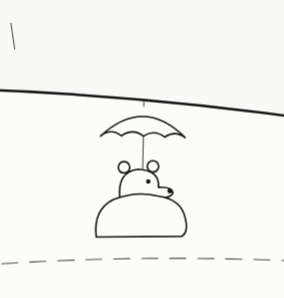
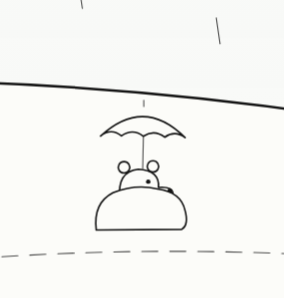
Front page: near rain over the headland; broken water at the south tower and along the Marin shore; the light spans the whole city or bridge; the bear's umbrella opens when it is up and folds before it goes; boats either way, sailboats also far off under the bridge; first acts early or late; 25 cent

diff --git a/docs/mockup/index.html b/docs/mockup/index.html
@@ -253,7 +253,7 @@ header.top{display:flex;align-items:baseline;justify-content:space-between;gap:1
     <!-- ================= the one scene from the point, painted once; the colour lies over the ink ================= -->
     <svg class="pan" id="L-static" viewBox="0 0 1600 700" aria-hidden="true"><g class="zoom scene"><g id="far"></g><g id="washes"></g></g></svg>
     <svg class="pan" id="L-lights" viewBox="0 0 1600 700" aria-hidden="true"><g class="zoom"><g id="lights" class="scene"></g></g></svg>
-    <svg class="pan" id="L-water" viewBox="0 0 1600 700" aria-hidden="true"><g class="zoom scene"><g id="skyfront" class="sky thin"></g><g id="water" class="hair"></g><g id="fog" class="fog" mask="url(#fogmask)"></g></g></svg>
+    <svg class="pan" id="L-water" viewBox="0 0 1600 700" aria-hidden="true"><g class="zoom scene"><g id="skyfront" class="sky thin"></g><g id="water" class="hair"></g><g id="fog" class="fog" mask="url(#fogmask)"></g><g id="foam" class="hair"></g><g id="rainnear" class="sky thin"></g></g></svg>
     <!-- foreground: the point, the lighthouse, the railing, the viewer at rest -->
     <svg id="L-life" viewBox="0 0 1600 700" aria-hidden="true"><defs><clipPath id="behind-hills"><path clip-rule="evenodd" d="M0 0 H1600 V700 H0 Z M 1400 700 L 1400 314 L 1500 320 L 1600 329 L 1600 700 Z"/></clipPath><clipPath id="behind-foothills"><path clip-rule="evenodd" d="M0 0 H1600 V700 H0 Z M 780 700 L 780 262 C 850 236, 930 230, 1000 244 C 1050 254, 1090 256, 1130 262 L 1130 700 Z"/></clipPath></defs><g id="life" class="life scene"></g></svg>
     <svg class="fg" id="L-fg" viewBox="0 0 1600 700" role="group" aria-label="An ink drawing of a lighthouse on a headland. Turn to the city or the bridge, or raise the coin telescope to look at the valley.">
@@ -486,6 +486,17 @@ header.top{display:flex;align-items:baseline;justify-content:space-between;gap:1
   (function crests(){ const r = rng(19); for (let i=0;i<12;i++){ const x = r()*W, y = 360 + r()*320; const c = el("path", {d:`M${x} ${y} q 6 -3 12 0 M${x+3} ${y-2} l 2 -2`, class:"crest thin"}, waterG); c.style.animationDelay = (-r()*4).toFixed(2) + "s"; c.style.animationDuration = (3 + r()*3).toFixed(2) + "s"; } })();
   // the Marin headland, near, drawn over the water so the bay ends at its foot; the road out to the point on it
   const headland = el("g", {}); waterG.parentNode.insertBefore(headland, fogG);
+  // where something solid stands in the water, the water breaks around it, and keeps breaking
+  (function foam(){
+    const g = $("#foam"), spots = [[620, 362, 1.2, "tower"], [612, 362, .9, "tower"], [394, 347, 1, "shore"], [372, 351, .9, "shore"], [348, 355, .9, "shore"], [322, 358, .8, "shore"], [298, 360, .8, "shore"], [270, 362, .7, "shore"]];
+    const draw = () => { const r = Math.random; let d = "";
+      for (const [x, y, k] of spots){
+        d += ` M ${(x - 9*k - r()*3).toFixed(1)} ${(y + .5).toFixed(1)} q ${(4*k).toFixed(1)} ${(-2.4*k - r()*1.2).toFixed(1)} ${(8*k).toFixed(1)} 0`;
+        d += ` M ${(x + 1 + r()*2).toFixed(1)} ${(y + 1.5).toFixed(1)} q ${(4*k).toFixed(1)} ${(-2*k - r()).toFixed(1)} ${(9*k).toFixed(1)} ${(.5*r()).toFixed(1)}`;
+        if (r() < .6) d += ` M ${(x - 4*k + r()*8*k).toFixed(1)} ${(y + 4*k).toFixed(1)} l ${(3*k).toFixed(1)} ${(-.8*k).toFixed(1)}`; }
+      g.setAttribute("d", ""); g.innerHTML = ""; el("path", {d}, g); };
+    draw(); setInterval(()=>{ if (!reduced) draw(); }, 260);
+  })();
   // a ridge that falls from the left edge to the water, the Gate's north end on its shoulder
   // the Marin headland: a low rounded shoulder falling to the water at the Gate's north end
   // filled down into the water so the Gate's north tower stands out of it; only its skyline is inked
@@ -649,7 +660,7 @@ header.top{display:flex;align-items:baseline;justify-content:space-between;gap:1
     el("path", {d:"M-300 -60 L 300 -60", class:"hair"}, hood);
     el("path", {d:"M-14 -134 L 14 -134 M 0 -142 L 0 -126", class:"thin"}, hood);                      // the slot
     el("path", {d:"M-70 -126 L 70 -126 L 70 -74 L -70 -74 Z", class:"thin"}, hood);                  // the plate
-    const t = el("text", {x:0, y:-100, "text-anchor":"middle", class:"cap"}, hood); t.textContent = "25.5¢";
+    const t = el("text", {x:0, y:-100, "text-anchor":"middle", class:"cap"}, hood); t.textContent = "25¢";
     const t2 = el("text", {x:0, y:-82, "text-anchor":"middle"}, hood); t2.textContent = "PER MILLION TOKENS";
     el("circle", {cx:-236, cy:-112, r:20}, hood); el("path", {d:"M-236 -132 L -236 -92 M-256 -112 L -216 -112", class:"hair"}, hood);
     const k = el("text", {x:-236, y:-78, "text-anchor":"middle"}, hood); k.textContent = "FOCUS";
@@ -710,7 +721,8 @@ header.top{display:flex;align-items:baseline;justify-content:space-between;gap:1
   const beam = $("#beam"), cone = $("#cone"), pans = document.querySelectorAll("svg.pan"), fgSvg = $("#L-fg"), fg = $("#fg"), stage = $("#stage");
   // what each view is, in the scene: the two ends the beam reaches for. The telescope is in front, on the rail.
   // from the point the beam reaches for the whole of the place; once turned, it skims the water to the place's feet
-  const TARGET = { city:{ ends:[[1000, 230], [1450, 336]], base:[[1020, 250], [1450, 338]] }, bridge:{ ends:[[160, 240], [760, 330]], base:[[300, 215], [560, 338]] }, tele:{ ends:[[1470, 334], [1600, 346]] } };
+  // ends: the two edges of the light seen from the point; edge: the same once turned to it, running to the place's top and to its foot on the water
+  const TARGET = { city:{ ends:[[1005, 214], [1600, 342]], edge:[[1057, 215], [1600, 341]] }, bridge:{ ends:[[292, 214], [140, 332]], edge:[[300, 210], [150, 337]] }, tele:{ ends:[[1470, 334], [1600, 346]] } };
   const beamPath = $("#beam path"); let beamTimer = null; const fogTimers = [];
   // where the lighthouse stands in each view: whole at the point; turned, only its lantern shows, large, at the side you turned from
   const LANTERN = [800, 263];
@@ -728,11 +740,8 @@ header.top{display:flex;align-items:baseline;justify-content:space-between;gap:1
       far = target.ends.map(([x, y]) => [x, y]);
       beamPath.setAttribute("d", far.map(([x, y]) => `M${LANTERN[0]} ${LANTERN[1]} L ${x.toFixed(1)} ${y.toFixed(1)}`).join(" "));
     } else {
-      // turned, a single narrow beam from the lantern to the middle of the place, widening a little with distance
-      const [a1, b1] = target.base.map(([x, y]) => toScreen(view, x, y)), c = [(a1[0]+b1[0])/2, (a1[1]+b1[1])/2];
-      const dx = c[0]-lantern[0], dy = c[1]-lantern[1], len = Math.hypot(dx, dy), nx = -dy/len, ny = dx/len, w = len*0.11, ext = .78;   // the drawn light stops short of the shore, where the first solid thing stands
-      const f = [lantern[0] + dx*ext, lantern[1] + dy*ext];
-      far = [[f[0] + nx*w*ext, f[1] + ny*w*ext], [f[0] - nx*w*ext, f[1] - ny*w*ext]];
+      // turned, the light spans the place: one edge to its top, the other to its foot on the water, both kept within the frame
+      far = target.edge.map(([x, y]) => { const [sx, sy] = toScreen(view, x, y); return [Math.max(20, Math.min(1580, sx)), Math.max(20, sy)]; });
     }
     const farFg = far.map(e => screenToFg(view, e));
     const mid = [(farFg[0][0]+farFg[1][0])/2, (farFg[0][1]+farFg[1][1])/2];
@@ -1007,7 +1016,7 @@ header.top{display:flex;align-items:baseline;justify-content:space-between;gap:1
     document.documentElement.style.setProperty("--cdrift", cross + "s");
     document.documentElement.style.setProperty("--rfall", (o.wind_kmh > 40 ? .7 : 1.1) + "s");
     document.querySelectorAll(".fog").forEach(g=>{ g.style.opacity = Math.max(w.fog, .4); });
-    sky.innerHTML = ""; skyFront.innerHTML = ""; celes.innerHTML = "";
+    sky.innerHTML = ""; skyFront.innerHTML = ""; celes.innerHTML = ""; $("#rainnear").innerHTML = "";
     const r = rng(w.clouds*13+7), clock = Date.now()/1000;
     // most cloud is behind the land and the bridge; one in four passes in front of them
     // cloud keeps to two bands: high, above the labels, and low, along the horizon behind the land
@@ -1018,7 +1027,7 @@ header.top{display:flex;align-items:baseline;justify-content:space-between;gap:1
     if (w.band) for (let y=90; y<104; y+=10) el("path", {d:`M 0 ${y} L ${W} ${y}`, class:"hair"}, sky);
     const rainN = [0, 220, 560][Math.max(w.rain, rainLevel)];
     if (rainN){ const slant = -lateral * 0.35;
-      const far = el("g", {class:"rain"}, sky), near = el("g", {class:"rain near"}, skyFront);
+      const far = el("g", {class:"rain"}, sky), near = el("g", {class:"rain near"}, $("#rainnear"));
       for (let i=0;i<rainN;i++){ const x = r()*W, y = 60 + r()*272; el("path", {d:`M${x} ${y} l ${slant*.7} 7`, class:"hair"}, far); }        // above the horizon only
       for (let i=0;i<rainN*.35;i++){ const x = r()*W, y = 40 + r()*640; el("path", {d:`M${x} ${y} l ${slant*1.3} 13`, class:"hair"}, near); } }
     document.querySelectorAll(".gull").forEach(p=>{ p.style.transform = `rotate(${lateral > 20 ? 14 : lateral < -20 ? -14 : 0}deg)`; p.style.transformOrigin = "center"; });
@@ -1207,23 +1216,29 @@ header.top{display:flex;align-items:baseline;justify-content:space-between;gap:1
     bear(){ if (stage.dataset.view !== "bridge" || bearUp) return 0; bearUp = true;
       // up over the rock, a look one way and the other, and down again
       const h = $("#bearhead"); const at = (y, fx) => h.setAttribute("transform", `translate(0,${y.toFixed(2)}) scale(${fx},1)`);
-      const wet = (PRESETS[current.preset] || {}).rain > 0 || current.rainLevel > 0; $("#brolly").style.display = wet ? "" : "none";   // in the rain, it brings an umbrella
-      tween(1800, k=>at(8 - 17*(1-(1-k)**2), 1), ()=>{ setTimeout(()=>{ at(-9, -1); setTimeout(()=>{ at(-9, 1);
-        setTimeout(()=>tween(1400, k=>at(-9 + 17*k*k, 1), ()=>{ bearUp = false; }), 1600); }, 1400); }, 1500); });
+      // in the rain it brings an umbrella: opened once its head is up, folded before it goes back down
+      const wet = (PRESETS[current.preset] || {}).rain > 0 || current.rainLevel > 0, u = $("#brolly");
+      const brolly = (open, ms) => { if (!wet) return; u.style.display = ""; tween(ms, k=>{ const f = open ? k : 1 - k; u.setAttribute("transform", `translate(1,-6) scale(${(.08 + .92*f).toFixed(2)},${(.3 + .7*f).toFixed(2)}) translate(-1,6)`); }, ()=>{ if (!open) u.style.display = "none"; }); };
+      u.style.display = "none";
+      const rise = 1500 + Math.random()*900, look = 1100 + Math.random()*900, peek = 15 + Math.random()*3;   // each time a little different
+      const first = Math.random() < .5 ? -1 : 1, top = 8 - peek;
+      tween(rise, k=>at(8 - peek*(1-(1-k)**2), 1), ()=>{ brolly(true, 500); setTimeout(()=>{ at(top, first); setTimeout(()=>{ at(top, -first);
+        setTimeout(()=>{ brolly(false, 450); setTimeout(()=>tween(1400, k=>at(top + peek*k*k, 1), ()=>{ bearUp = false; }), 500); }, look + 400); }, look); }, 1200 + Math.random()*800); });
       return 7800; },
     gust(){ stage.classList.add("gust"); document.querySelectorAll(".gull").forEach(p=>{ p.style.transition = "transform .8s"; p.style.transform = "rotate(-22deg)"; });
       setTimeout(()=>{ stage.classList.remove("gust"); }, 5000); },
     sail(){ const view = stage.dataset.view; if (view !== "bridge" && view !== "home") return 0;
-      const g = el("g", {class:"thin"}, life), boat = el("g", {}, g), P = "fill:var(--paper)";
+      const home = view === "home", farLane = !home && Math.random() < .5;   // on the bridge, half of them pass out under it, far off, behind the south tower
+      const g = el("g", {class:"thin"}, farLane ? $("#lifeback") : life), boat = el("g", {}, g), P = "fill:var(--paper)";
       el("path", {d:"M -22 0 L 24 0 L 17 7 L -16 7 Z", style:P}, boat);
       el("path", {d:"M 0 0 L 0 -44", class:"thin"}, boat);
       el("path", {d:"M 1.5 -42 Q 14 -24 21 -3 L 1.5 -3 Z", style:P}, boat);
       el("path", {d:"M -1.5 -38 L -1.5 -4 L -17 -4 Z", style:P}, boat);
       el("circle", {cx:0, cy:-45, r:1.3, class:"carlight lamp", style:"fill:#FFFFFF;stroke:none"}, boat);
       el("circle", {cx:-20, cy:2, r:1.3, class:"carlight lamp", style:"fill:#FF3B30;stroke:none"}, boat);
-      const home = view === "home", y = home ? 362 + Math.random()*100 : 535 + Math.random()*45, dur = 60000 + Math.random()*20000, heel = 3 + Math.random()*4;
-      const sc = home ? .28 + (y - 362)/100*.22 : .55 + Math.random()*.15, wk = wake(boat, 24, -18, 6.5);
-      tween(dur, k=>{ g.setAttribute("transform", `translate(${-60 + k*1760},${y + Math.sin(k*34)*1.6}) scale(${sc}) rotate(${-heel + Math.sin(k*23)*1.5})`); wk(performance.now()); }, ()=>g.remove()); },
+      const y = home ? 362 + Math.random()*100 : farLane ? 386 + Math.random()*16 : 520 + Math.random()*60, dur = (farLane ? 80000 : 60000) + Math.random()*24000, heel = 3 + Math.random()*4;
+      const sc = home ? .28 + (y - 362)/100*.22 : farLane ? .3 + Math.random()*.08 : .5 + Math.random()*.18, wk = wake(boat, 24, -18, 6.5), ltr = Math.random() < .5;
+      tween(dur, k=>{ const x = ltr ? -60 + k*1760 : 1660 - k*1760; g.setAttribute("transform", `translate(${x.toFixed(1)},${(y + Math.sin(k*34)*1.6).toFixed(1)}) scale(${ltr ? sc : -sc},${sc}) rotate(${-heel + Math.sin(k*23)*1.5})`); wk(performance.now()); }, ()=>g.remove()); },
     whale(){ const view = stage.dataset.view; if ((view !== "bridge" && view !== "home") || whaleUp) return 0;
       return EVENTS.fluke(null); },
     fluke(near){ const view = stage.dataset.view; whaleUp++;
@@ -1284,18 +1299,18 @@ header.top{display:flex;align-items:baseline;justify-content:space-between;gap:1
       el("circle", {cx:-48, cy:-27, r:1.3, class:"carlight lamp", style:"fill:#FFFFFF;stroke:none"}, g);
       el("circle", {cx:69, cy:-6, r:1.3, class:"carlight lamp", style:"fill:#46C271;stroke:none"}, g);
       const home = view === "home", y = home ? 356 + Math.random()*110 : 550 + Math.random()*35, dur = 70000 + Math.random()*20000;
-      const sc = home ? .42 + (y - 356)/110*.4 : 1.25 + Math.random()*.25, wk = wake(g, 66, -58, 9);
+      const sc = home ? .42 + (y - 356)/110*.4 : 1.2 + Math.random()*.3, wk = wake(g, 66, -58, 9), dir = Math.random() < .5 ? 1 : -1;
       const drops = params.get("crate") === "1" || Math.random() < 1/3, at = params.get("crate") === "1" ? .28 : .35 + Math.random()*.3; let dropped = false;
       tween(dur, k=>{
-        const x = -120 + k*1880; g.setAttribute("transform", `translate(${x.toFixed(1)},${(y + Math.sin(k*18)*1.2).toFixed(1)}) scale(${sc})`); wk(performance.now());
+        const x = dir > 0 ? -120 + k*1880 : 1720 - k*1880; g.setAttribute("transform", `translate(${x.toFixed(1)},${(y + Math.sin(k*18)*1.2).toFixed(1)}) scale(${dir*sc},${sc})`); wk(performance.now());
         if (drops && !dropped && k > at){ dropped = true;
           // one box on the top tier slides over the side, drops, lands with a splash, bobs, and slips under
           const [box, bx, by] = boxes[2 + Math.floor(Math.random()*5)]; box.remove();
           const c = el("g", {class:"thin"}, life); el("rect", {x:-4.7, y:-2.3, width:9.4, height:4.6, style:P}, c);
-          const wx = x + (bx + 4.7)*sc, wy0 = y + (by + 2.3)*sc, wy = y + 16*sc; let splash = null;
+          const wx = x + dir*(bx + 4.7)*sc, wy0 = y + (by + 2.3)*sc, wy = y + 16*sc; let splash = null;
           tween(9000, u=>{
             const fall = Math.min(1, u/.12), cy = wy0 + (wy - wy0)*fall*fall, rot = fall*28 + (u > .12 ? Math.sin(u*40)*6 : 0), sink = u > .6 ? (u - .6)/.4 : 0;
-            c.setAttribute("transform", `translate(${(wx - u*14).toFixed(1)},${(cy + sink*5*sc).toFixed(1)}) rotate(${rot.toFixed(1)}) scale(${(sc*(1 - sink*.5)).toFixed(2)})`); c.style.opacity = 1 - sink;
+            c.setAttribute("transform", `translate(${(wx - dir*u*14).toFixed(1)},${(cy + sink*5*sc).toFixed(1)}) rotate(${rot.toFixed(1)}) scale(${(sc*(1 - sink*.5)).toFixed(2)})`); c.style.opacity = 1 - sink;
             if (u > .12 && !splash){ splash = el("g", {class:"hair"}, life); for (let i=0;i<6;i++){ const a = (-150 + i*24)*Math.PI/180; el("path", {d:`M${wx} ${wy} l ${Math.cos(a)*7*sc} ${Math.sin(a)*9*sc}`}, splash); }
               el("path", {d:`M ${wx - 14*sc} ${wy + 3} q ${14*sc} -3 ${28*sc} 0`}, splash); }
             if (splash) splash.style.opacity = Math.max(0, 1 - (u - .12)*3);
@@ -1350,7 +1365,7 @@ header.top{display:flex;align-items:baseline;justify-content:space-between;gap:1
     const next = () => { if (!bag.length){ bag = [...plan.features].sort(()=>Math.random() - .5); if (bag.length > 1 && bag[0] === lastE) bag.push(bag.shift()); } return (lastE = bag.shift()); };
     const play = name => { let ms = 0; try { ms = EVENTS[name]() || 0; } catch (e) { console.error(e); } return ms; };
     const feature = delay => cue(delay, ()=>{ if (stage.dataset.view !== view) return; const ms = play(next()); feature(Math.max(ms, 3000) + rand(plan.gap)); });
-    let end = 0; for (const [e, ms] of plan.first){ cue(ms, ()=>{ if (stage.dataset.view === view) play(e); }); end = Math.max(end, ms); }
+    let end = 0; for (const [e, ms0] of plan.first){ const ms = ms0*(.7 + Math.random()*.6); cue(ms, ()=>{ if (stage.dataset.view === view) play(e); }); end = Math.max(end, ms); }
     feature(end + 16000 + rand(plan.gap));
     for (const [e, range] of plan.ambient){ const again = d => cue(d, ()=>{ if (stage.dataset.view === view) play(e); again(rand(range)); }); again(rand(range)); }
   }
